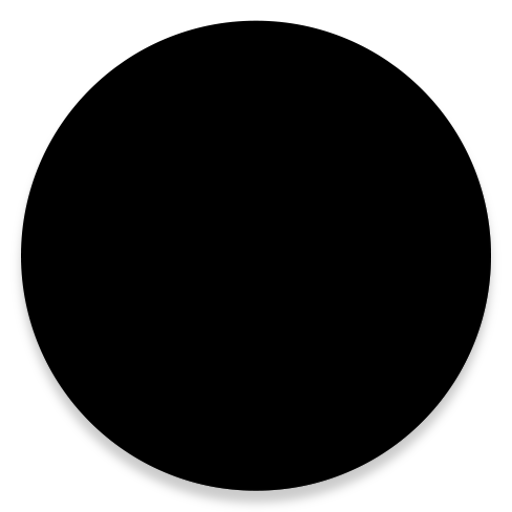
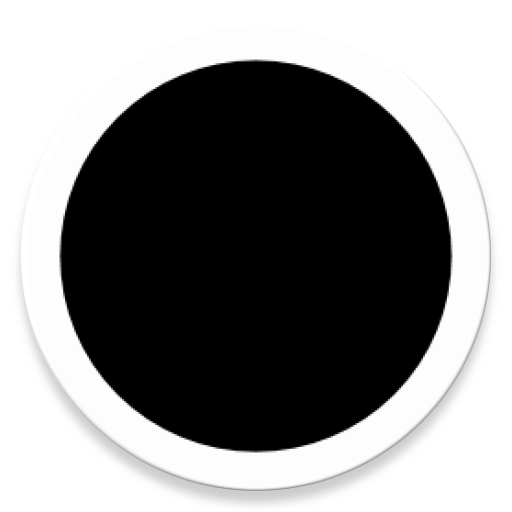
+ new white and black pins + now the whole background is changed + popup which are only called once are not cancelable anymore

Changed region(s): [[0.0312, 0.0312, 0.9688, 0.9688]]

diff --git a/app/src/main/java/de/dhbw/stuttgart/mastermind/GameActivity.java b/app/src/main/java/de/dhbw/stuttgart/mastermind/GameActivity.java
@@ -390,7 +390,7 @@ public class GameActivity extends AppCompatActivity implements OnClickListener
             }
             new AlertDialog.Builder(this)
                     .setMessage(msg)
-                    .setCancelable(true)
+                    .setCancelable(false)
                     .setNeutralButton("Neustart", new DialogInterface.OnClickListener()
                     {
                         public void onClick(final DialogInterface dialog, final int id)
@@ -436,7 +436,7 @@ public class GameActivity extends AppCompatActivity implements OnClickListener
             name.setText("Spielername", TextView.BufferType.EDITABLE);
             new AlertDialog.Builder(this)
                     .setMessage(msg)
-                    .setCancelable(true)
+                    .setCancelable(false)
                     .setView(name)
                     .setNeutralButton("Neustart", new DialogInterface.OnClickListener()
                     {
@@ -614,7 +614,7 @@ public class GameActivity extends AppCompatActivity implements OnClickListener
         _farbauswahl.setVisibility(LinearLayout.INVISIBLE);
         farbvorschlag.addView(CreateDisplayableRow(this, _farbforschlagRow));
 
-        LinearLayout gamefield = (LinearLayout) findViewById(R.id.game_field);
+        //LinearLayout gamefield = (LinearLayout) findViewById(R.id.game_field);
         int color = Color.TRANSPARENT;
         switch(_backgroundColor)
         {
@@ -628,7 +628,7 @@ public class GameActivity extends AppCompatActivity implements OnClickListener
                 color = Color.WHITE;
                 break;
         }
-        gamefield.setBackgroundColor(color);
+        findViewById(R.id.game).setBackgroundColor(color);
 
 
         Button button = (Button) findViewById(R.id.btn_game_aufloesen);
@@ -697,7 +697,7 @@ public class GameActivity extends AppCompatActivity implements OnClickListener
                 if (_saveGame)
                 {
                     new AlertDialog.Builder(this)
-                            .setCancelable(true)
+                            .setCancelable(false)
                             .setMessage(R.string.title_break)
                             .setNeutralButton(R.string.label_weiter, new DialogInterface.OnClickListener()
                             {
@@ -727,7 +727,7 @@ public class GameActivity extends AppCompatActivity implements OnClickListener
                     name.setInputType(InputType.TYPE_CLASS_TEXT);
                     name.setText("Name", TextView.BufferType.EDITABLE);
                     new AlertDialog.Builder(this)
-                            .setCancelable(true)
+                            .setCancelable(false)
                             .setView(name)
                             .setMessage(R.string.title_break)
                             .setNeutralButton(R.string.label_weiter, new DialogInterface.OnClickListener()
